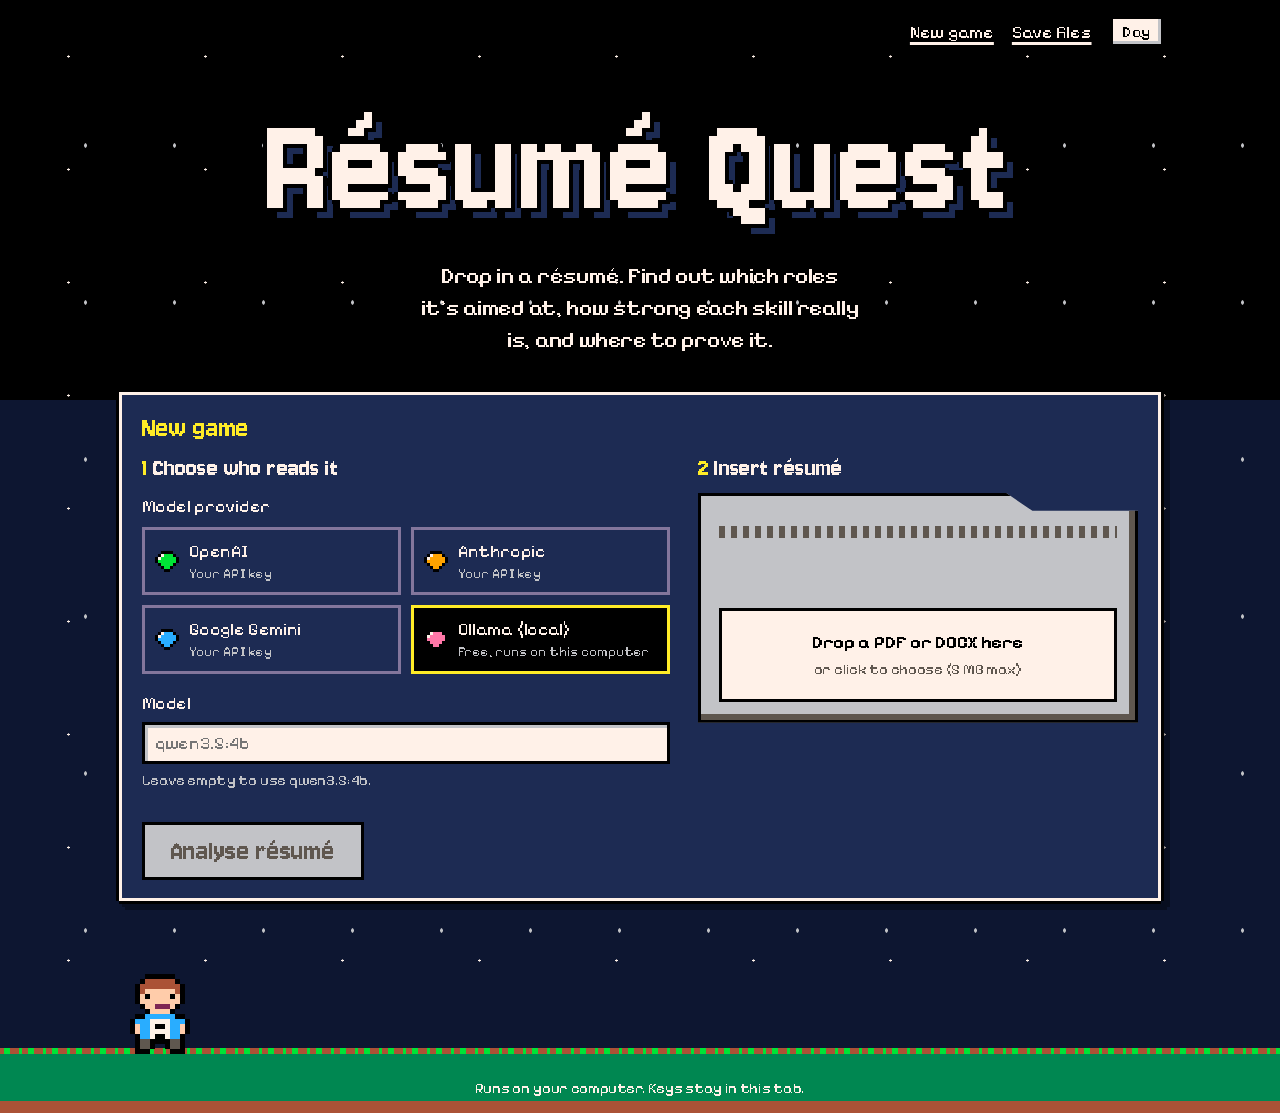
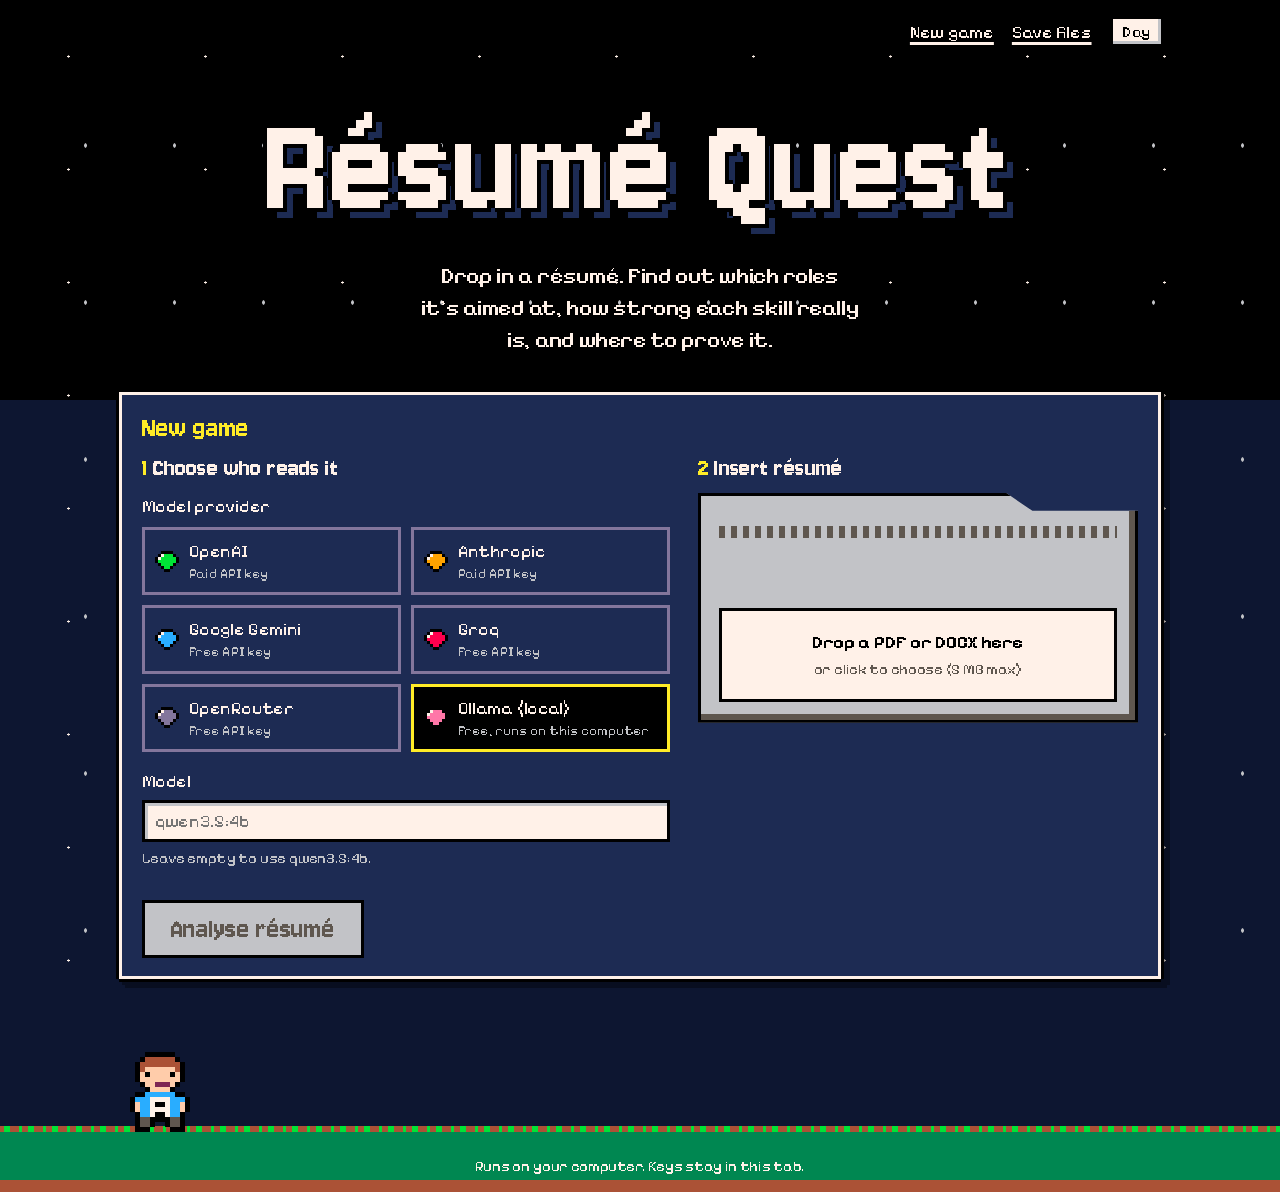
Document the free ways to run it

Changed region(s): [[0.0, 0.0916, 1.0, 0.8248], [0.0, 0.8553, 1.0, 1.0], [0.7188, 0.0, 0.9062, 0.0611]]

diff --git a/README.md b/README.md
@@ -7,7 +7,19 @@ A local résumé analyser with a pixel-art RPG interface. Drop in a PDF or DOCX 
 - **How good the résumé is as a document:** sections, contact details, quantified bullets, action verbs, length and employment gaps, ranked S to D.
 - **How to test the person:** a generated multiple-choice quiz that compares "claimed" with "demonstrated", interview questions from warm-up to deep dive, and hand-picked links to real tests and certifications.
 
-It works with **OpenAI, Anthropic, Google Gemini, or a local Ollama model** (free, no key). Cloud API keys are pasted into the page, held only in that tab's memory, and never stored anywhere. See [API key safety](#api-key-safety).
+It works with **OpenAI, Anthropic, Google Gemini, Groq, OpenRouter, or a local Ollama model**. Cloud API keys are pasted into the page, held only in that tab's memory, and never stored anywhere. See [API key safety](#api-key-safety).
+
+### Free ways to run it
+
+| Provider | Cost | Notes |
+|---|---|---|
+| **Ollama** | Free, no key | Runs on your own computer. Nothing leaves your machine. |
+| **Google Gemini** | [Free key](https://aistudio.google.com/apikey) | Several Flash models have a free tier (default `gemini-2.5-flash`). Google may use free-tier prompts to improve its products. |
+| **Groq** | [Free key](https://console.groq.com/keys) | Very fast. Default `openai/gpt-oss-120b`, which enforces the JSON schema. Other Groq models run in plain JSON mode. |
+| **OpenRouter** | [Free key](https://openrouter.ai/keys) | Default `openrouter/free` picks a free model that supports structured output. Free models allow 20 requests a minute and 50 a day; one analysis uses one request. |
+| OpenAI, Anthropic | Paid | An API key with billing set up. A ChatGPT or Claude subscription doesn't include API credit. |
+
+Free tiers change often, so check each provider's limits before relying on them. When a free quota runs out, the app says so instead of telling you to retry.
 
 **Stack:** Django 5.2 + Django REST Framework · React 19 + Vite · SQLite · pdfminer.six / python-docx
 
@@ -39,7 +51,7 @@ upload ─► text extraction ─► LLM (JSON schema) ─► verify + score ─
 ```
 
 1. **Extraction.** The file type is detected from its bytes (not its name or content type), parsed in memory, and thrown away. Only the text is kept. Unmapped PDF glyphs like `(cid:127)` are turned back into bullets.
-2. **One structured LLM call.** Each provider's native structured-output mode returns JSON matching a fixed schema: OpenAI `json_schema` (strict), Anthropic `output_config.format`, Gemini `response_json_schema`, Ollama `format`. Pydantic validates the result; a malformed answer is retried once, then reported cleanly.
+2. **One structured LLM call.** Each provider's native structured-output mode returns JSON matching a fixed schema: OpenAI `json_schema` (strict), Anthropic `output_config.format`, Gemini `response_json_schema`, Groq and OpenRouter `response_format` json_schema (OpenRouter only routes to upstreams that honour it), Ollama `format`. Pydantic validates the result; a malformed answer is retried once, then reported cleanly.
 3. **Evidence is checked, not trusted.** A skill only scores from evidence that passes two tests:
    - the quote really is in the résumé (normalised, with a 90% fuzzy match to absorb PDF line-wrap noise), **and**
    - it actually names the skill. A real résumé line about PyTorch is not evidence for Python.
@@ -65,7 +77,7 @@ Keys for cloud providers are entered in the page and live **only in React state 
 | The screen | Once entered, only the last four characters are shown (`…WXYZ`). |
 | The network | Sent only to this app's own server, only as an `X-LLM-Key` request header, only on requests that call a model. Never in a URL or body, so it can't end up in an access log. |
 | The server | Read from the header, handed to the provider SDK, and dropped when the request ends. Never saved to the database, a file or a cache. |
-| Logs and error pages | A log filter redacts any key seen in the current request, plus anything shaped like an OpenAI, Anthropic or Google key, including inside tracebacks. Django's error reports hide the header and any local variable holding a key. Provider errors are mapped to fixed messages ("The provider rejected the API key."), so an SDK message that quotes your key never reaches the browser. |
+| Logs and error pages | A log filter redacts any key seen in the current request, plus anything shaped like an OpenAI, Anthropic, OpenRouter, Groq or Google key, including inside tracebacks. Django's error reports hide the header and any local variable holding a key. Provider errors are mapped to fixed messages ("The provider rejected the API key."), so an SDK message that quotes your key never reaches the browser. |
 | Other websites | No CORS. The page and the API share one origin. Every state-changing request must carry a custom `X-Resume-Quest` header, which another site can't add without a CORS preflight this server never approves. `ALLOWED_HOSTS` is localhost-only, which also blocks DNS rebinding. |
 | Injected scripts | Strict Content-Security-Policy: `script-src 'self'`, no inline scripts, no CDNs. Fonts are self-hosted, so no third-party code ever runs on the page holding your key. |
 
@@ -105,8 +117,8 @@ cd resume_summarizer_backend
 
 ```bash
 .venv/bin/pip install -r requirements-dev.txt
-cd resume_summarizer_backend && ../.venv/bin/pytest      # 94 tests
-cd resume_summarizer_frontend && npm test                # 12 tests
+cd resume_summarizer_backend && ../.venv/bin/pytest      # 102 tests
+cd resume_summarizer_frontend && npm test                # 13 tests
 ```
 
 The backend tests never call a real model. Each provider adapter is tested against a mocked SDK (request shape, error mapping, refusals), and the API runs end to end with an offline keyword-matching provider that only exists when `ENABLE_FAKE_PROVIDER=True`. CI runs both suites and the production build on every push.
@@ -116,7 +128,8 @@ The backend tests never call a real model. Each provider adapter is tested again
 ```
 resume_summarizer_backend/
   analyzer/
-    llm/              one adapter per provider + the shared JSON call with retry
+    llm/              one adapter per provider (Groq and OpenRouter share an
+                      OpenAI-compatible one) + the shared JSON call with retry
     extract.py        PDF/DOCX → text, in memory
     analytics.py      quote verification, résumé scan, skill scoring, quality checks
     testing.py        quiz targets, option shuffling, grading
@@ -131,7 +144,7 @@ samples/              fictional sample résumé (txt, PDF, DOCX) + the script th
 
 ## Known limitations
 
-- The Ollama path is verified end to end against a real model. The OpenAI, Anthropic and Gemini adapters are verified against mocked SDKs, and the OpenAI one against the real API's "invalid key" response. They haven't had a successful run with a real paid key yet.
+- The Ollama path is verified end to end against a real model. The cloud adapters are verified against mocked SDKs. OpenAI, Groq and OpenRouter were also checked against their real APIs' "invalid key" responses, and OpenRouter's live free-model list. None has had a successful run with a real key yet.
 - Quality depends on the model. A 4B local model gets role fits and categories right but writes the occasional shaky quiz question. The verification and scanning steps exist so that skill scores don't depend on it.
 - Scanned (image-only) PDFs have no text layer and are rejected rather than OCR'd.
 - Quiz verdicts rest on one to three questions per skill: a prompt to dig in, not a judgement.
